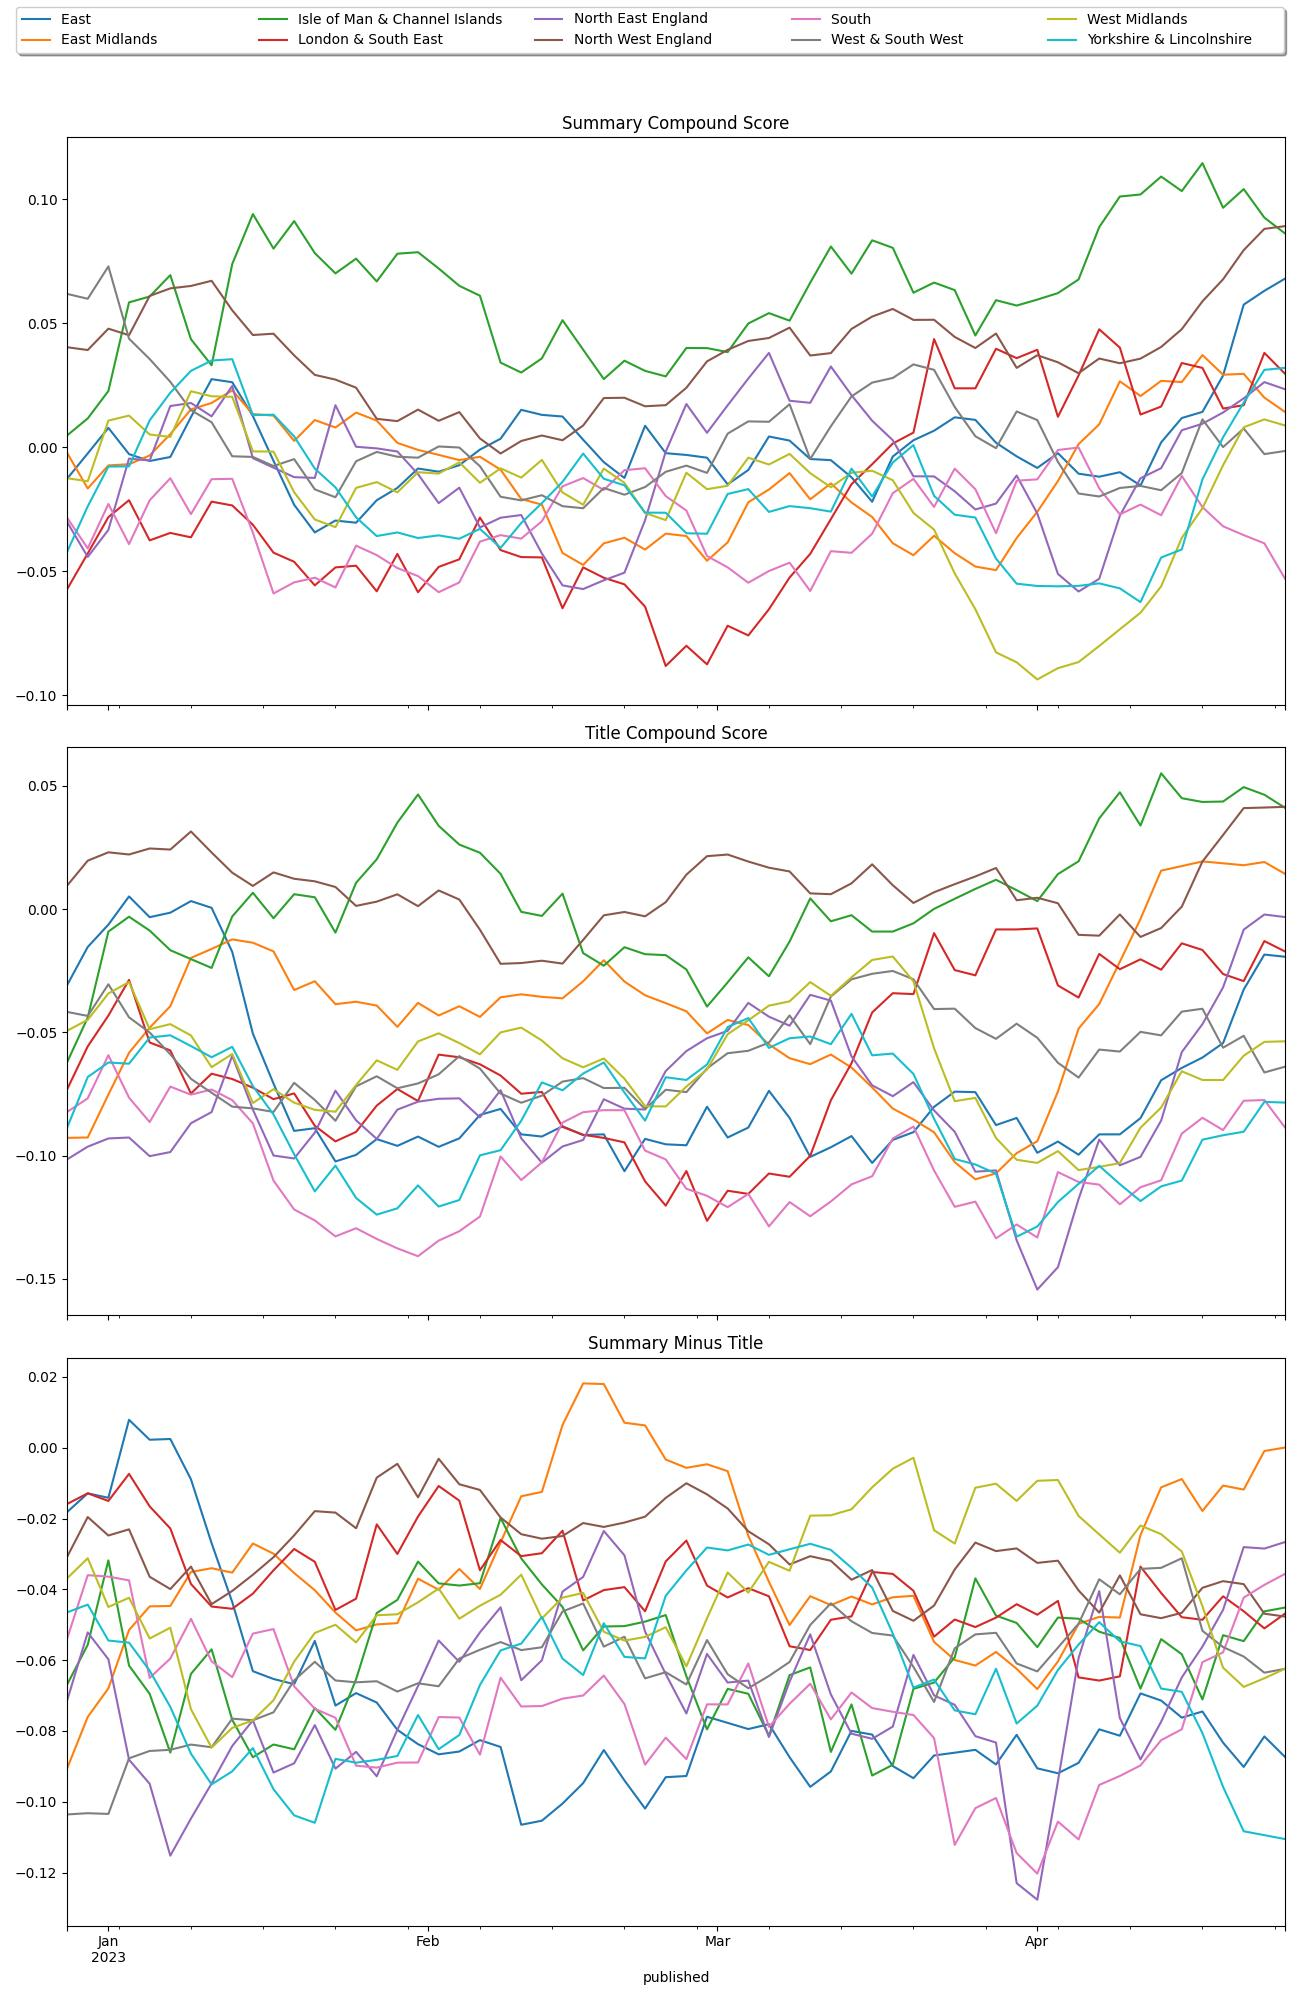
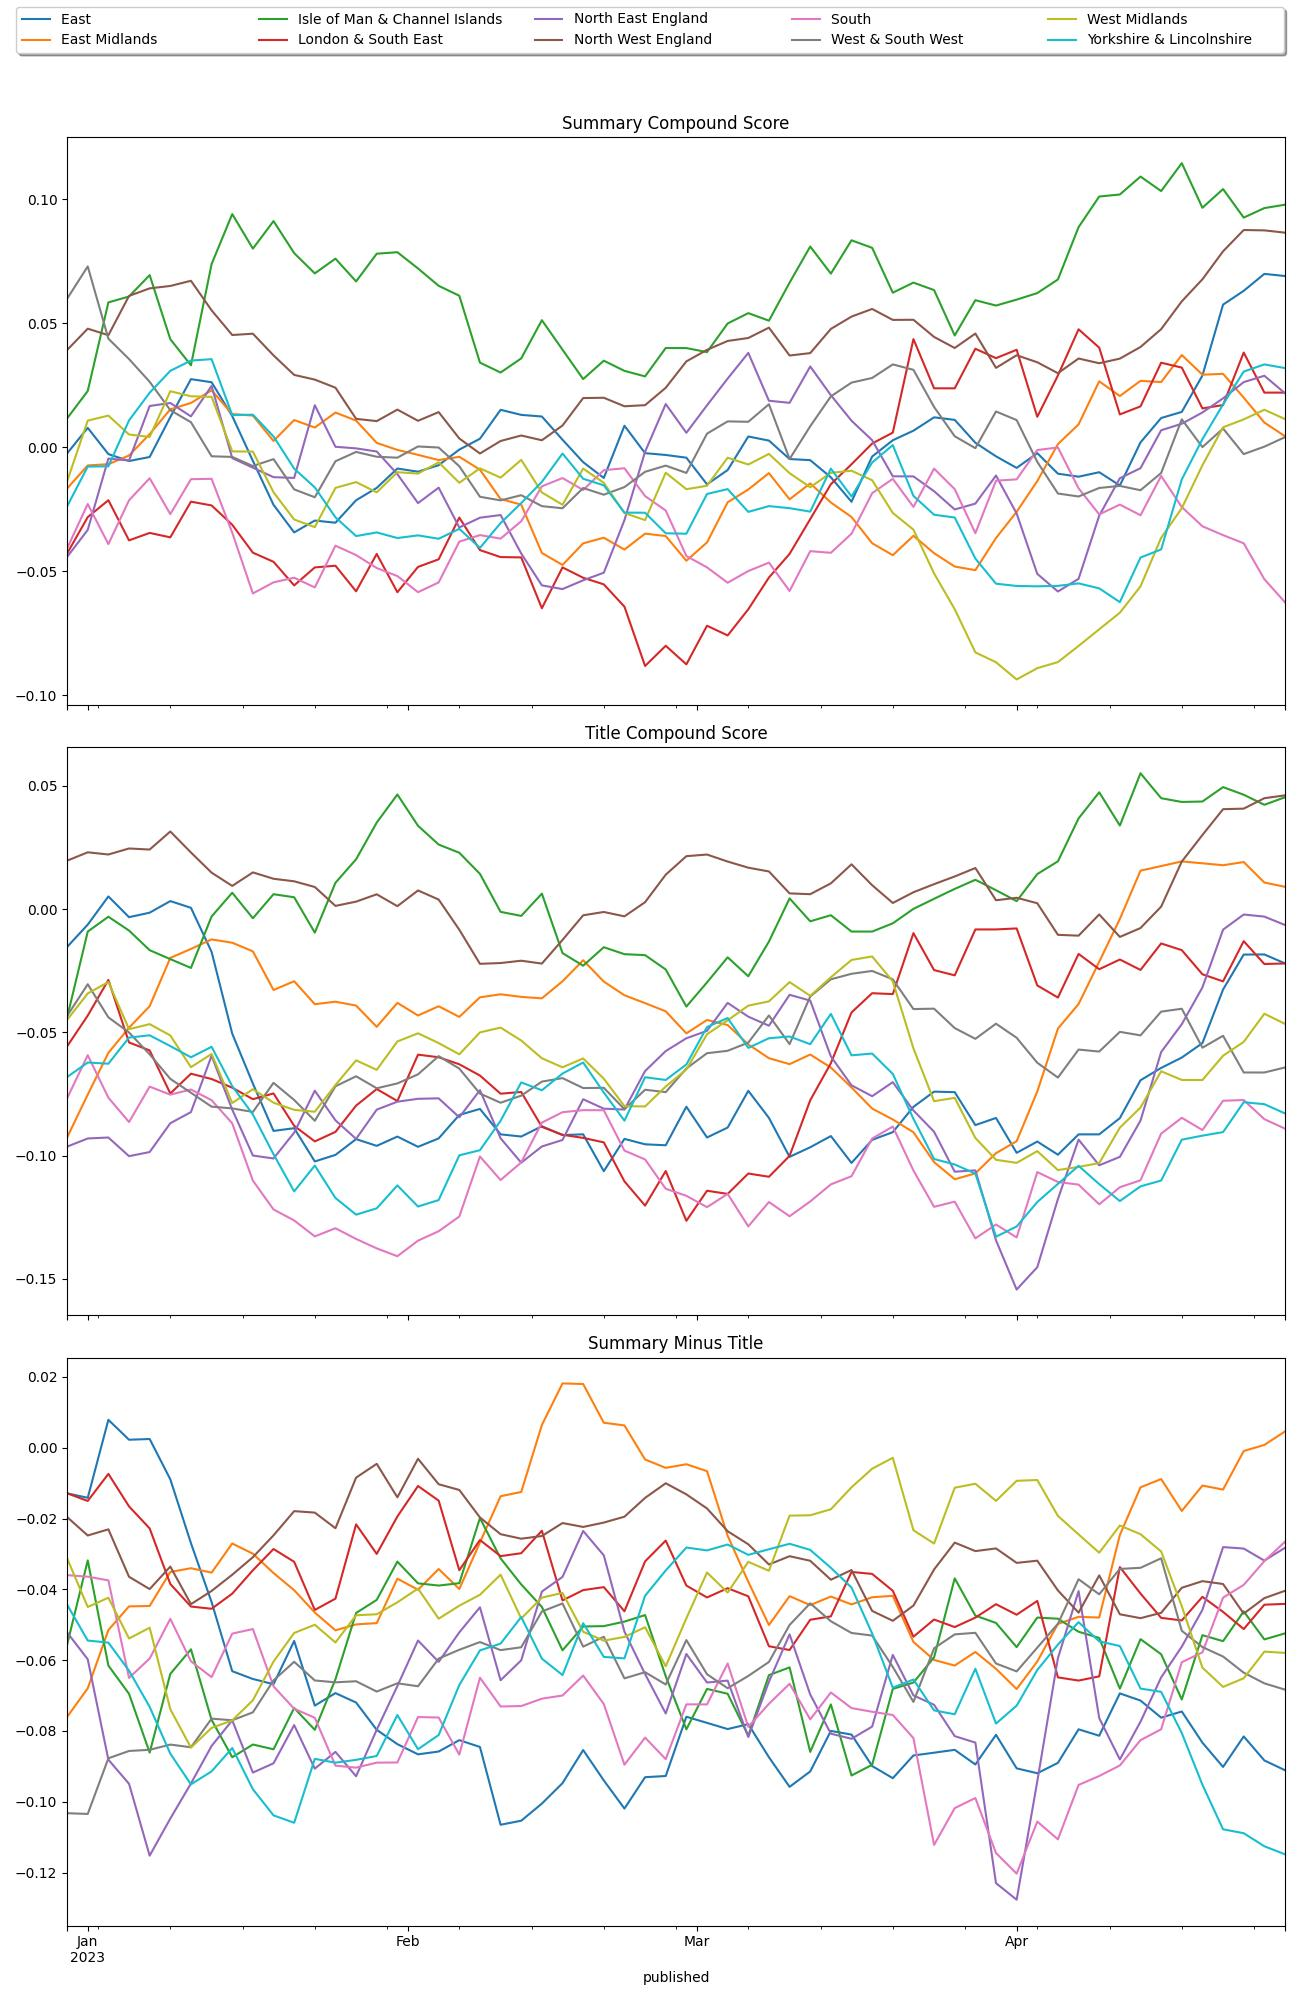
at 2023-04-27 10:43 ran: [Stage: 'complete-basic_report']

diff --git a/reports/complete/latest.md b/reports/complete/latest.md
@@ -1,12 +1,12 @@
-| region                        | published                        | summary                                                                                                                         | title                                                        | url                                     |   summary_compound_score |   title_compound_score |   summary_minus_title |
-|:------------------------------|:---------------------------------|:--------------------------------------------------------------------------------------------------------------------------------|:-------------------------------------------------------------|:----------------------------------------|-------------------------:|-----------------------:|----------------------:|
-| East                          | 2023-04-26 09:08:11+00:00        | Ipswich Town's pressure to win promotion to the Championship is something the squad has 'thrived' on, says boss Kieran McKenna. | McKenna's Ipswich 'thrive' on promotion pressure             | /sport/football/65397342                |                   0.6705 |                -0.296  |               -0.9665 |
-| East Midlands                 | 2023-04-26 07:30:47.687000+00:00 |                                                                                                                                 | 'The mental victory is definitely Leicester's'               | /sport/articles/ceq68v4qn7no            |                   0      |                 0.4019 |                0.4019 |
-| Isle of Man & Channel Islands | 2023-04-26 06:59:54+00:00        | Sites on the Isle of Man and in Wales are chosen for the Wildlife Trusts' £38m restoration project.                             | British Isles rainforest restoration to begin                | /news/world-europe-isle-of-man-65386305 |                   0.4767 |                 0      |               -0.4767 |
-| London & South East           | 2023-04-25 22:06:30+00:00        | Woking miss the chance to move into the top three of the National League with a surprise defeat at home by FC Halifax Town.     | Woking 0-1 FC Halifax Town                                   | /sport/football/65307434                |                   0.0772 |                 0      |               -0.0772 |
-| North East England            | 2023-04-26 09:20:21+00:00        | Newcastle Falcons recruit Edinburgh centre Cameron Hutchison on a two-year deal from next season.                               | Newcastle to sign Edinburgh centre Hutchison                 | /sport/rugby-union/65397347             |                   0      |                 0      |                0      |
-| North West England            | 2023-04-26 08:55:40.066000+00:00 |                                                                                                                                 | Is 'pressure off' Arsenal at Man City?                       | /sport/articles/cd1rz2glygqo            |                   0      |                -0.296  |               -0.296  |
-| South                         | 2023-04-26 08:22:50+00:00        | Miniature bars including Twix and Milky Way feature on the chocolate bust of King Charles.                                      | Chocolate King made to celebrate coronation                  | /news/uk-england-berkshire-65396837     |                   0      |                 0.5719 |                0.5719 |
-| West & South West             | 2023-04-26 09:26:18+00:00        | The civilian police worker, who is Phillip Schofield's brother, was convicted of child sexual offences.                         | Paedophile Timothy Schofield dismissed from police           | /news/uk-england-bristol-65398220       |                  -0.34   |                 0      |                0.34   |
-| West Midlands                 | 2023-04-26 09:08:57+00:00        | Kings Heath High Street is cordoned off as police investigate a fatal stabbing.                                                 | Murder inquiry after man stabbed in city                     | /news/uk-england-birmingham-65397244    |                  -0.5423 |                -0.8225 |               -0.2802 |
-| Yorkshire & Lincolnshire      | 2023-04-26 08:52:44.058000+00:00 | The fire service had warned sites like the one proposed near Carlton posed a "real" explosion risk.                             | Battery facility plans withdrawn amid hundreds of objections | /news/articles/clk4vrk1yg0o             |                  -0.4767 |                 0      |                0.4767 |
+| region                        | published                        | summary                                                                                                                                       | title                                              | url                                  |   summary_compound_score |   title_compound_score |   summary_minus_title |
+|:------------------------------|:---------------------------------|:----------------------------------------------------------------------------------------------------------------------------------------------|:---------------------------------------------------|:-------------------------------------|-------------------------:|-----------------------:|----------------------:|
+| East                          | 2023-04-27 09:13:23+00:00        | Reports say health department officials "raised concern" about the health secretary's conduct.                                                | No complaints made about Barclay, says government  | /news/uk-politics-65409767           |                   0      |                -0.5994 |               -0.5994 |
+| East Midlands                 | 2023-04-27 08:56:08+00:00        | Civil servants are planning for budget cuts of at least £500m in cash terms in this financial year.                                           | Northern Ireland braced for big cuts in budget     | /news/uk-northern-ireland-65404988   |                  -0.296  |                -0.296  |                0      |
+| Isle of Man & Channel Islands | 2023-04-27 05:10:41+00:00        | A psychiatric unit says it is relying on agency staff to help keep its services running.                                                      | Jersey psychiatric unit struggling to recruit      | /news/world-europe-jersey-65385684   |                   0.4019 |                -0.4215 |               -0.8234 |
+| London & South East           | 2023-04-27 06:37:52.457000+00:00 |                                                                                                                                               | 'I am proud of my players' - De Zerbi              | /sport/articles/crge655jv0qo         |                   0      |                 0.4767 |                0.4767 |
+| North East England            | 2023-04-27 05:12:55+00:00        | Marie Seaton is described as a "nurse's nurse" who would be missed by all who new her.                                                        | Long-serving nurse retires after 44 years          | /news/uk-england-tees-65400864       |                  -0.296  |                 0      |                0.296  |
+| North West England            | 2023-04-27 08:42:40.383000+00:00 |                                                                                                                                               | 'They looked like the old Liverpool'               | /sport/articles/c8vr9p206m1o         |                   0      |                 0.3612 |                0.3612 |
+| South                         | 2023-04-27 08:50:01+00:00        | The first residents could move into the barge, which will be moored off the Dorset coast, from July.                                          | Migrant barge could be in port for years, MP warns | /news/uk-england-dorset-65408668     |                   0      |                -0.1027 |               -0.1027 |
+| West & South West             | 2023-04-27 09:18:31+00:00        | Police are investigating after a woman in her 80s is seriously injured in a three vehicle collision.                                          | Woman suffers life-changing injuries in crash      | /news/uk-england-wiltshire-65409706  |                  -0.7096 |                -0.7003 |                0.0093 |
+| West Midlands                 | 2023-04-27 09:06:34+00:00        | Rory Allington-Mott admits racially aggravated criminal damage to the Lion Hotel in Shrewsbury.                                               | Man sentenced over attack at asylum seeker hotel   | /news/uk-england-shropshire-65410470 |                  -0.8074 |                -0.4939 |                0.3135 |
+| Yorkshire & Lincolnshire      | 2023-04-27 09:15:30+00:00        | Sheffield United boss Paul Heckingbottom says the team's Premier League promotion is a reward for consistency from his "written-off" players. | Heckingbottom hails 'written-off' Blades squad     | /sport/football/65402163             |                   0.7579 |                 0      |               -0.7579 |
